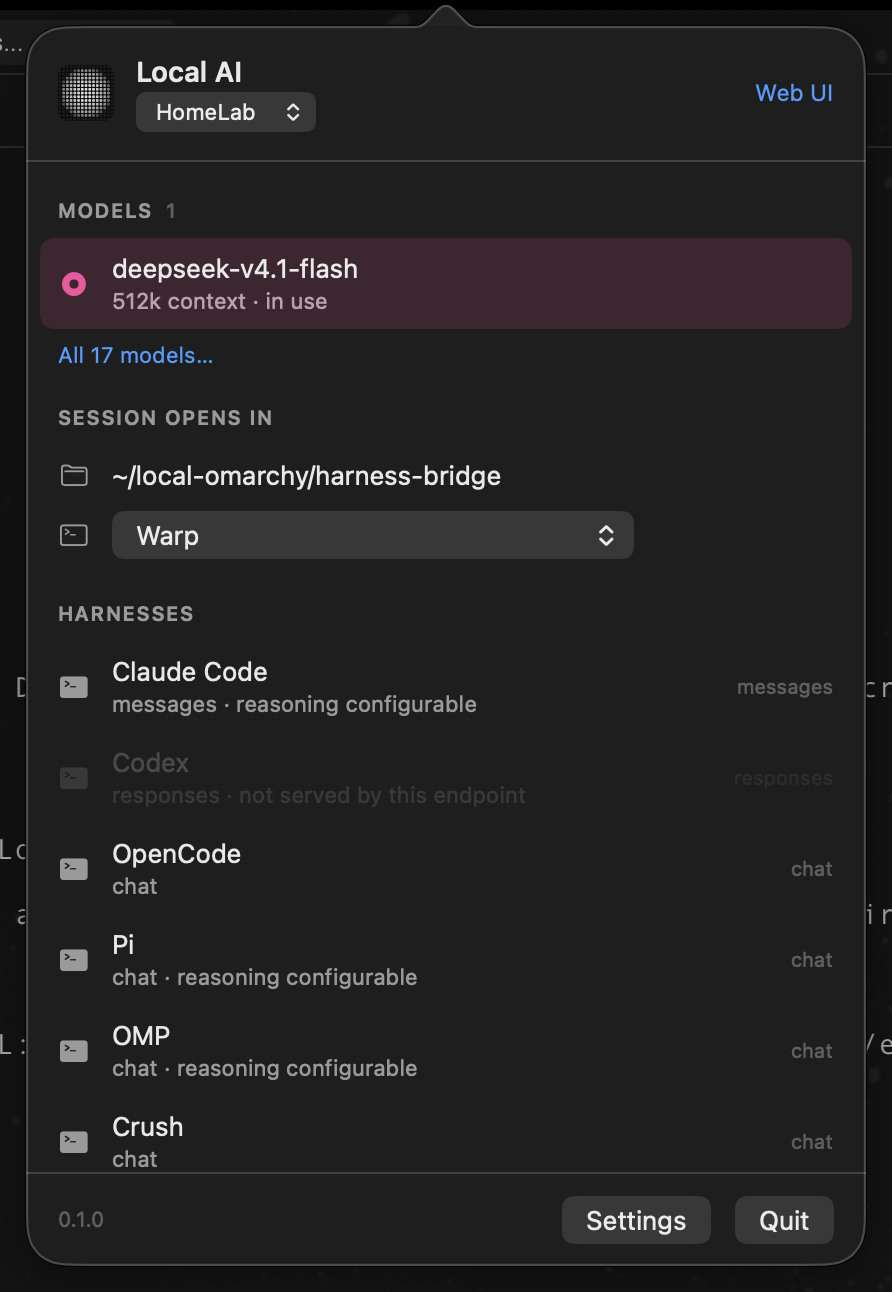
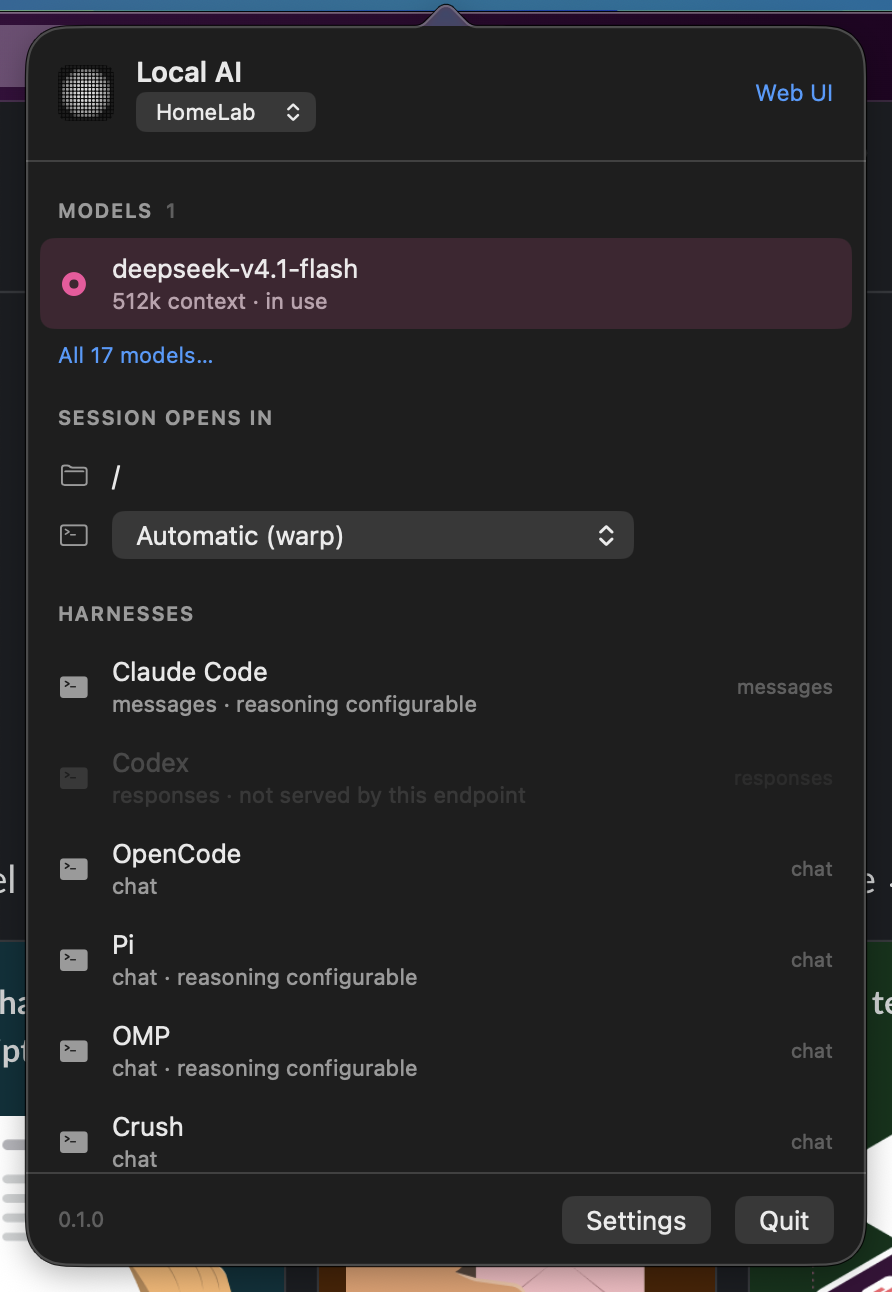
Dialects are discovered by probing the endpoint, not declared
Codex showed as blocked because the stored dialect list was a manual guess from
when the provider was added — and this endpoint answers /responses fine, so a
working harness was greyed out.

`providers scan` now sends a one-token request to /chat/completions, /messages and
/responses, records which answer, and stores that. The tray and web pick it up on
their next read. Verified against the live endpoint: all three answer, so Codex is
offered, and its plan carries the bypass flag.

diff --git a/packages/core/src/core.ts b/packages/core/src/core.ts
@@ -64,6 +64,55 @@ export function pinModel(model: string, on = true): Config {
   return cfg;
 }
 
+export interface DialectProbe {
+  dialect: Dialect;
+  ok: boolean;
+  status: number;
+}
+
+/**
+ * Ask the endpoint which dialects it actually serves, with a one-token request each, and
+ * record the answer. This replaces trusting whatever `--apis` said at add time: an endpoint
+ * that implements `/messages` but not `/responses` is common, and a wrong guess silently
+ * hides working harnesses.
+ */
+export async function scanDialects(providerId?: string): Promise<{ provider: Provider; probes: DialectProbe[] }> {
+  const p = resolveProvider(providerId);
+  const cfg = loadConfig();
+  const model = (cfg.selected.provider === p.id ? cfg.selected.model : null) ?? (await listModels(p.id).catch(() => []))[0]?.id ?? "test";
+  const base = apiBases(p.apiUrl).v1;
+  const bodies: Record<Dialect, unknown> = {
+    chat: { model, max_tokens: 1, messages: [{ role: "user", content: "ping" }] },
+    messages: { model, max_tokens: 1, messages: [{ role: "user", content: "ping" }] },
+    responses: { model, input: "ping", max_output_tokens: 16 },
+  };
+  const probes: DialectProbe[] = [];
+  for (const dialect of ["chat", "messages", "responses"] as Dialect[]) {
+    const path = dialect === "chat" ? "chat/completions" : dialect;
+    try {
+      const res = await fetch(`${base}/${path}`, {
+        method: "POST",
+        headers: { "content-type": "application/json", authorization: `Bearer ${p.apiKey}` },
+        body: JSON.stringify(bodies[dialect]),
+        signal: AbortSignal.timeout(20_000),
+      });
+      probes.push({ dialect, ok: res.ok, status: res.status });
+    } catch {
+      probes.push({ dialect, ok: false, status: 0 });
+    }
+  }
+  const served = probes.filter((d) => d.ok).map((d) => d.dialect);
+  if (served.length) {
+    const i = cfg.providers.findIndex((x) => x.id === p.id);
+    if (i >= 0) {
+      cfg.providers[i].apis = served;
+      if (cfg.selected.provider === p.id && !served.includes(cfg.providers[i].api)) cfg.providers[i].api = served[0];
+      saveConfig(cfg);
+    }
+  }
+  return { provider: p, probes };
+}
+
 /** Record the flags a harness launches with. Pass null to restore the default. */
 export function setHarnessFlags(id: string, flags: string[] | null): Config {
   const cfg = loadConfig();

diff --git a/packages/cli/src/cli.ts b/packages/cli/src/cli.ts
@@ -7,7 +7,7 @@ import {
   CONFIG_PATH, HARNESSES, REASONING_LEVELS, TERMINALS,
   addProvider, buildLaunch, dialectsOf, harnessById, harnessInstalled, installHarness,
   DEFAULT_ARGS, listModels, loadConfig, openSession, removeProvider, resolveProvider, resolveTerminal,
-  pinModel, run, saveConfig, selectModel, sessionDir, setCwd, setHarnessFlags, setTerminal, snapshot, terminalInstalled, terminalSource,
+  pinModel, run, saveConfig, scanDialects, selectModel, sessionDir, setCwd, setHarnessFlags, setTerminal, snapshot, terminalInstalled, terminalSource,
 } from "@harness-bridge/core";
 import type { ReasoningLevel } from "@harness-bridge/core";
 import { join } from "node:path";
@@ -83,6 +83,11 @@ async function main() {
         addProvider({ ...p, reasoning: level });
         console.log(`${bold(p.id)} reasoning: ${bold(level)}`);
         return;
+      }
+      if (args[0] === "scan") {
+        const { provider, probes } = await scanDialects(args[1]);
+        for (const pr of probes) console.log(`${pr.ok ? bold("live") : dim("no  ")}  ${pr.dialect.padEnd(10)} ${dim(`http ${pr.status}`)}`);
+        console.log(`${bold(provider.id)} serves: ${bold(probes.filter((x) => x.ok).map((x) => x.dialect).join(", ") || "nothing")}`);
       }
       if (args[0] === "show") {
         const p = resolveProvider(args[1]);
@@ -264,9 +269,7 @@ async function main() {
         return;
       }
 
-    case "config":
-      console.log(CONFIG_PATH);
-      return;
+    case "config": console.log(CONFIG_PATH); return;
 
     case "serve": {
       const port = flag("port") ?? "4141";

diff --git a/README.md b/README.md
@@ -125,6 +125,11 @@ harness-bridge run --safe claude           # omit them for this one launch
 A harness is only offered when the endpoint speaks its dialect. That is a correctness rule,
 not a preference: Responses-shaped traffic to a Chat endpoint fails on the first turn.
 
+Which dialects an endpoint serves is **discovered, not declared**: `providers scan` sends a
+one-token request to `/chat/completions`, `/messages` and `/responses` and records what
+answers. Running it after a provider changes — or an engine gains a dialect — is what
+unblocks a harness that was greyed out.
+
 | Harness | Dialect | How it reaches the endpoint |
 |---|---|---|
 | `claude` | `messages` | `ANTHROPIC_BASE_URL`, `ANTHROPIC_AUTH_TOKEN`, `ANTHROPIC_MODEL`, `--model` |
